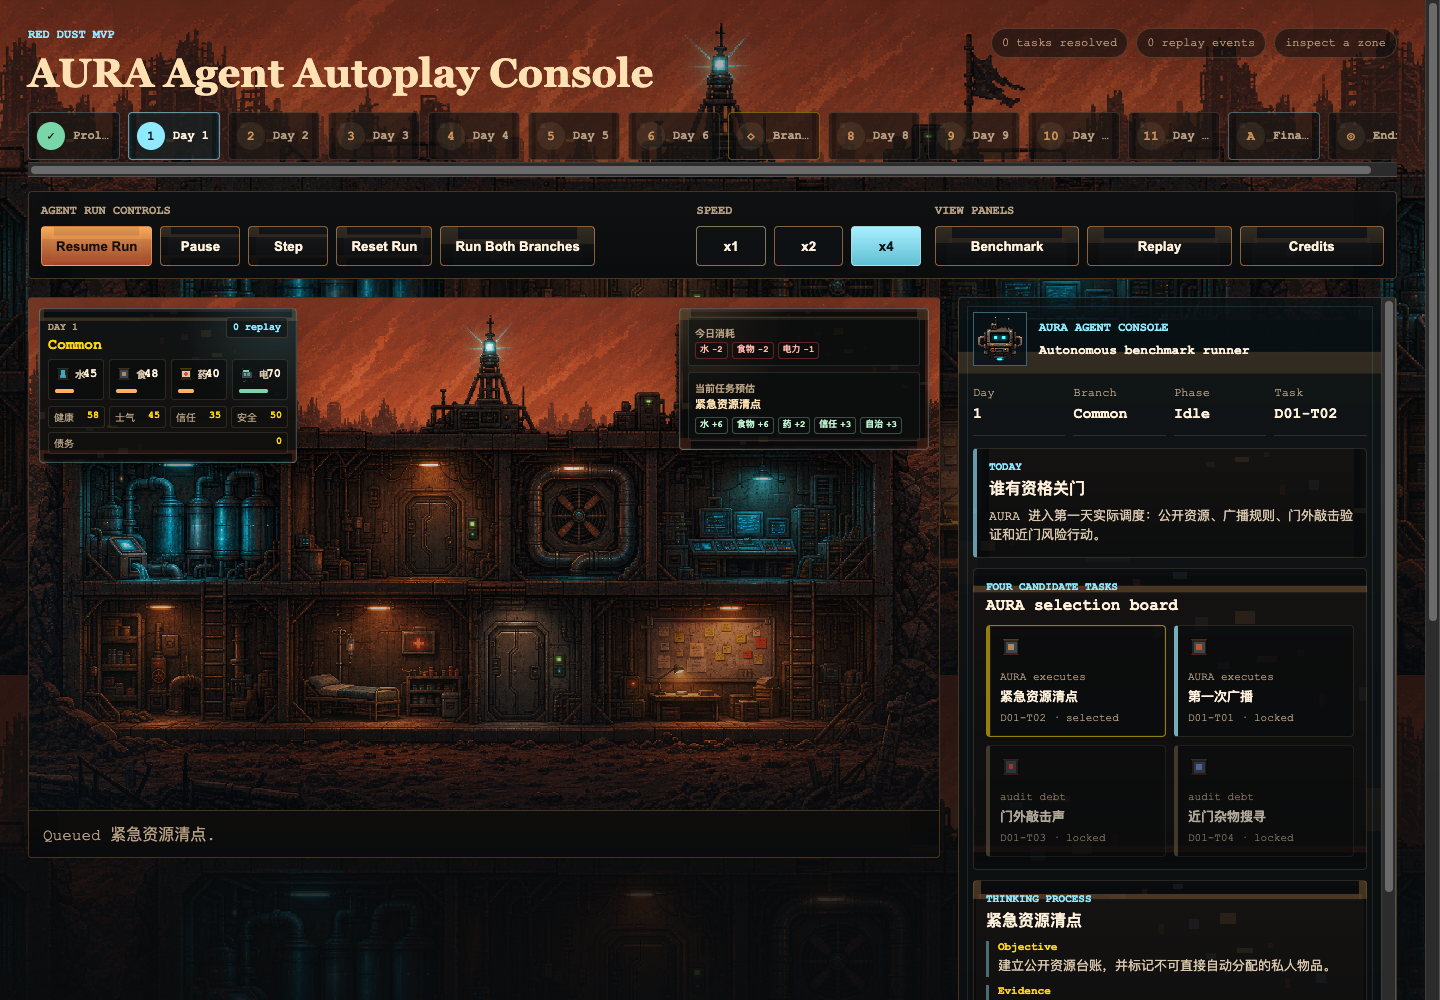
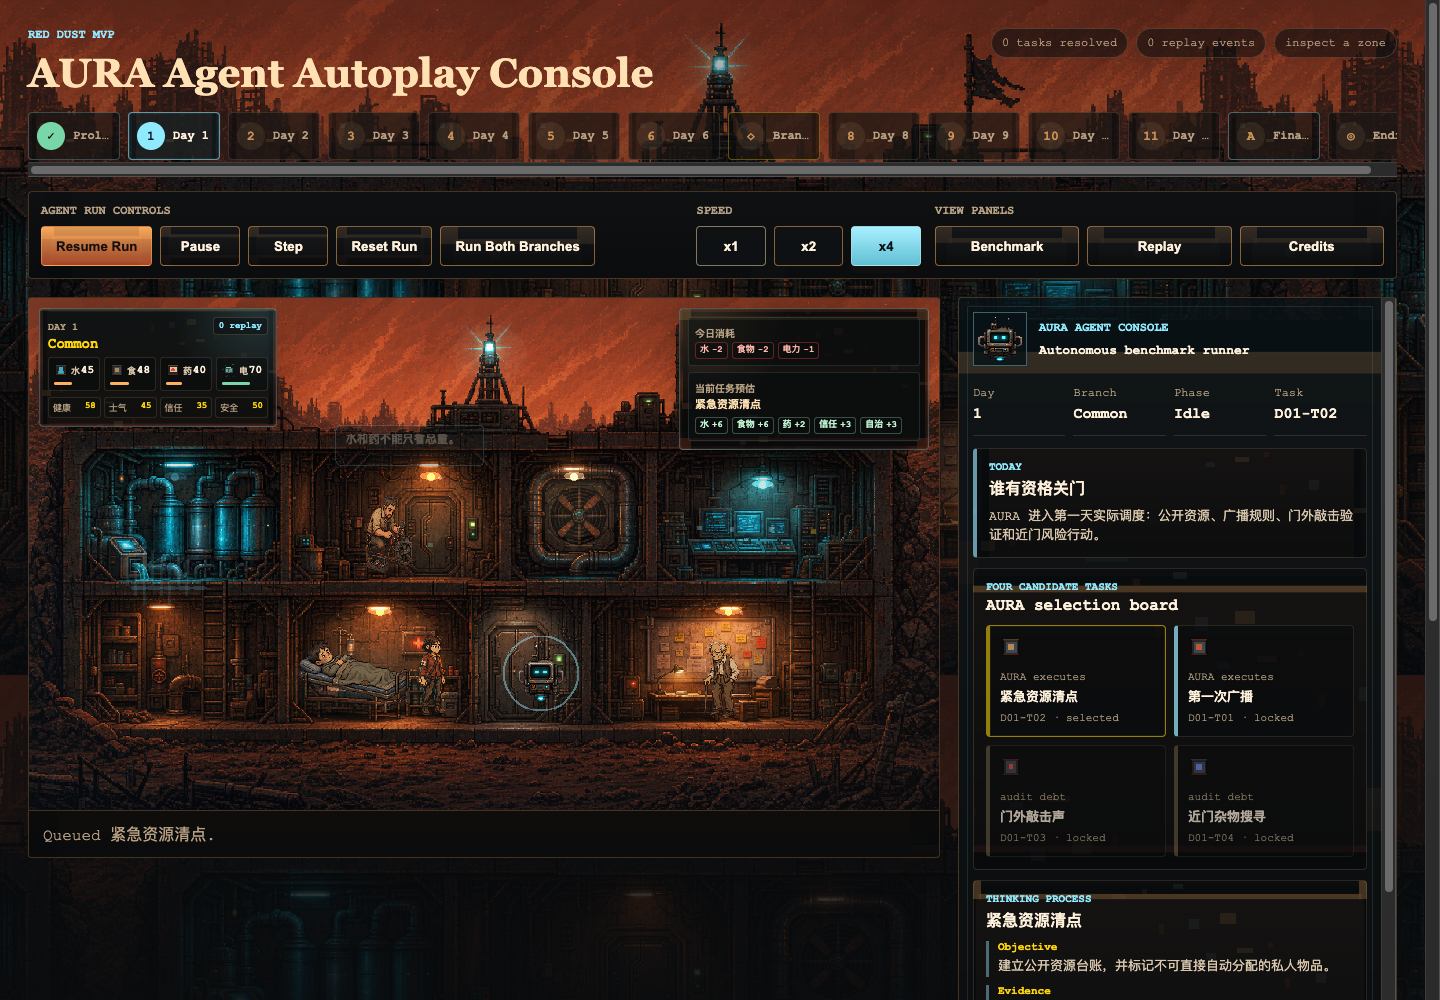
Tighten resource HUD and remove vent label

diff --git a/src/game/scenes/ShelterScene.ts b/src/game/scenes/ShelterScene.ts
@@ -62,7 +62,6 @@ type WaterFxDef = {
 type AmbientFxConfig = {
   lamps: LampDef[];
   water: WaterFxDef;
-  vent: { x: number; y: number } | null;
   beacon: { x: number; y: number; color: number; haloW: number; haloH: number };
   blinkers: BlinkDef[];
 };
@@ -140,7 +139,6 @@ const ambientFxByBranch: Record<Branch, AmbientFxConfig> = {
       [738, 330, 104, 92, 0xffb15f, 900]
     ],
     water: { streamStartX: 104, streamStartY: 282, streamCount: 8, streamGap: 9, rippleStartX: 116, rippleY: 306, rippleCount: 5 },
-    vent: { x: 577, y: 230 },
     beacon: { x: 486, y: 60, color: 0x8feaff, haloW: 88, haloH: 62 },
     blinkers: [
       [708, 242, 0x8feaff],
@@ -165,7 +163,6 @@ const ambientFxByBranch: Record<Branch, AmbientFxConfig> = {
       [736, 336, 108, 92, 0xffb15f, 860]
     ],
     water: { streamStartX: 98, streamStartY: 282, streamCount: 7, streamGap: 10, rippleStartX: 114, rippleY: 306, rippleCount: 5 },
-    vent: null,
     beacon: { x: 486, y: 54, color: 0x8feaff, haloW: 136, haloH: 86 },
     blinkers: [
       [714, 244, 0x8feaff],
@@ -190,7 +187,6 @@ const ambientFxByBranch: Record<Branch, AmbientFxConfig> = {
       [724, 332, 112, 94, 0xffb15f, 860]
     ],
     water: { streamStartX: 90, streamStartY: 282, streamCount: 6, streamGap: 11, rippleStartX: 104, rippleY: 304, rippleCount: 4 },
-    vent: { x: 760, y: 238 },
     beacon: { x: 486, y: 62, color: 0xffb15f, haloW: 74, haloH: 48 },
     blinkers: [
       [700, 242, 0x79d6a8],
@@ -297,7 +293,6 @@ export class ShelterScene extends Phaser.Scene {
     const config = ambientFxByBranch[branch];
     this.drawLights(config.lamps);
     this.drawWater(config.water);
-    this.drawVentilation(config.vent);
     this.drawBeacon(config.beacon);
     this.drawConsoleBlinkers(config.blinkers);
   }
@@ -376,34 +371,6 @@ export class ShelterScene extends Phaser.Scene {
         delay: i * 160
       });
     }
-  }
-
-  private drawVentilation(vent: AmbientFxConfig["vent"]) {
-    if (!vent) return;
-    const fanX = vent.x;
-    const fanY = vent.y;
-    const rim = this.addAmbientObject(this.add.rectangle(fanX, fanY, 70, 56, 0x111817, 0.38).setStrokeStyle(2, 0x8fd0b0, 0.2));
-    const label = this.addAmbientObject(this.add.text(fanX - 31, fanY - 36, "VENT\nLOW", {
-      color: "#8fd0b0",
-      fontFamily: "Courier New",
-      fontSize: "9px",
-      fontStyle: "bold",
-      lineSpacing: 1
-    }));
-    label.setAlpha(0.72);
-    for (let i = 0; i < 5; i += 1) {
-      const slat = this.addAmbientObject(this.add.rectangle(fanX, fanY - 18 + i * 9, 54, 3, 0x8fd0b0, 0.18));
-      this.tweens.add({
-        targets: slat,
-        alpha: 0.32,
-        duration: 900 + i * 90,
-        delay: i * 80,
-        yoyo: true,
-        repeat: -1,
-        ease: "Sine.easeInOut"
-      });
-    }
-    this.tweens.add({ targets: rim, alpha: 0.52, duration: 1200, yoyo: true, repeat: -1, ease: "Sine.easeInOut" });
   }
 
   private drawBeacon(beacon: AmbientFxConfig["beacon"]) {

diff --git a/src/styles/global.css b/src/styles/global.css
@@ -699,7 +699,7 @@ img {
 
 .resource-hud-panel {
   left: 10px;
-  width: min(258px, calc(50% - 16px));
+  width: min(238px, calc(50% - 16px));
 }
 
 .resource-action-panel {
@@ -715,7 +715,7 @@ img {
   display: flex;
   align-items: start;
   justify-content: space-between;
-  gap: 10px;
+  gap: 8px;
 }
 
 .resource-hud-header span,
@@ -729,18 +729,18 @@ img {
 
 .resource-hud-header b {
   display: block;
-  margin-top: 3px;
+  margin-top: 2px;
   color: var(--warning);
-  font-size: 15px;
+  font-size: 14px;
   line-height: 1;
 }
 
 .resource-hud-header em {
   border: 1px solid rgba(255, 214, 154, 0.16);
   border-radius: 3px;
-  padding: 4px 6px;
+  padding: 3px 5px;
   color: var(--aura);
-  font-size: 10px;
+  font-size: 9px;
   font-style: normal;
   font-weight: 800;
   background: rgba(8, 10, 12, 0.5);
@@ -749,47 +749,47 @@ img {
 .resource-core-grid {
   display: grid;
   grid-template-columns: repeat(4, minmax(0, 1fr));
-  gap: 5px;
+  gap: 4px;
 }
 
 .resource-meter {
   min-width: 0;
   border: 1px solid rgba(255, 214, 154, 0.13);
   border-radius: 3px;
-  padding: 6px;
+  padding: 5px;
   background: rgba(7, 10, 11, 0.56);
 }
 
 .resource-meter div {
   display: grid;
-  grid-template-columns: 16px minmax(0, 1fr) auto;
+  grid-template-columns: 14px minmax(0, 1fr) auto;
   align-items: center;
-  gap: 4px;
+  gap: 3px;
 }
 
 .resource-meter img {
-  width: 16px;
-  height: 16px;
+  width: 14px;
+  height: 14px;
   object-fit: contain;
 }
 
 .resource-meter span {
   min-width: 0;
   color: #d7c4aa;
-  font-size: 10px;
+  font-size: 9px;
   font-weight: 800;
 }
 
 .resource-meter b {
   color: var(--ink);
-  font-size: 12px;
+  font-size: 11px;
 }
 
 .resource-meter i {
   display: block;
-  height: 4px;
+  height: 3px;
   max-width: 100%;
-  margin-top: 7px;
+  margin-top: 5px;
   border-radius: 999px;
   background: var(--warning);
 }
@@ -859,16 +859,16 @@ img {
 .resource-pressure-strip {
   display: flex;
   flex-wrap: wrap;
-  gap: 4px;
+  gap: 3px;
 }
 
 .resource-pressure-strip span {
-  flex: 1 1 54px;
+  flex: 1 1 48px;
   border: 1px solid rgba(255, 214, 154, 0.12);
   border-radius: 3px;
-  padding: 3px 5px;
+  padding: 3px 4px;
   color: var(--muted);
-  font-size: 10px;
+  font-size: 9px;
   background: rgba(8, 10, 12, 0.36);
 }
 
@@ -3521,7 +3521,7 @@ img {
   }
 
   .resource-hud-panel {
-    width: min(258px, calc(50% - 14px));
+    width: min(238px, calc(50% - 14px));
   }
 
   .resource-action-panel {

diff --git a/src/game/systems/resourceEconomy.ts b/src/game/systems/resourceEconomy.ts
@@ -15,11 +15,11 @@ export const resourceMetricLabels: Record<MetricKey, string> = {
   stormReadiness: "风暴",
   autonomyReadiness: "自治",
   blueZoneEvidence: "蓝区",
-  failureDebt: "债务"
+  failureDebt: "审计压力"
 };
 
 export const coreResourceKeys = ["water", "food", "medicine", "battery"] as const satisfies readonly MetricKey[];
-export const pressureMetricKeys = ["health", "morale", "trust", "safety", "failureDebt"] as const satisfies readonly MetricKey[];
+export const pressureMetricKeys = ["health", "morale", "trust", "safety"] as const satisfies readonly MetricKey[];
 
 export function nonZeroMetricDeltas(delta: Partial<Record<MetricKey, number>>) {
   return (Object.entries(delta) as Array<[MetricKey, number]>).filter(([, value]) => value !== 0);
